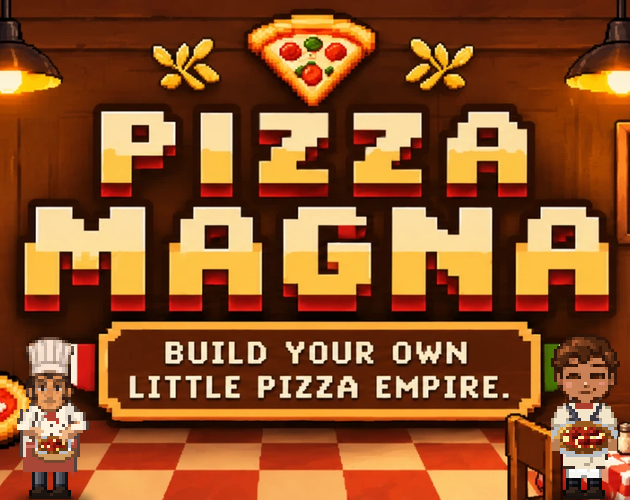
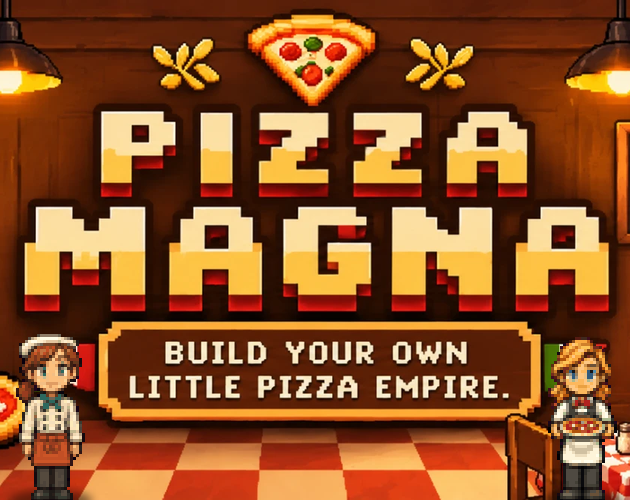
itch.io page kit: cover and screenshots with the cast-01 characters
After merging main (cast-01 is now the default): the cover uses a pizzaiola and
a waitress from assets/cast, the GIF maker drops the DEV switch and records a
full team (five cooks, four waiters), and the screenshots get a fuller team.

Claude-Session: https://claude.ai/code/session_01X3CjJc1MM1px52YqiUbKah

Changed region(s): [[0.8444, 0.66, 0.9952, 1.0], [0.0, 0.66, 0.1508, 1.0]]

diff --git a/itch/make_gifs.js b/itch/make_gifs.js
@@ -1,7 +1,7 @@
 /* Makes the animated GIFs for the itch.io page description, from the real game.
    Run from the repo root:  node itch/make_gifs.js        (needs Playwright and ffmpeg; takes a few minutes)
    Output (next to this file): gif-pizza.gif (a pizza built piece by piece), gif-day.gif (the dining room at
-   the dinner rush, with the new pilot staff art from DEV), gif-city.gif (a slow pan over Porto Magno).
+   the dinner rush, with the whole team), gif-city.gif (a slow pan over Porto Magno).
    Full-size screenshots are slow, so while recording the page runs at a quarter of its speed (clocks, timers,
    requestAnimationFrame and CSS animations) and the frames are timed in the page's own time. */
 const { chromium } = require('playwright');
@@ -9,7 +9,7 @@ const fs = require('fs'), path = require('path'), { execFileSync } = require('ch
 const OUT = __dirname, GAME = 'file://' + path.resolve(__dirname, '../index.html'), K = 0.25;
 const TMP = fs.mkdtempSync(path.join(require('os').tmpdir(), 'pm-gifs-'));
 
-async function page(b, viewport, scale, hash = '') {
+async function page(b, viewport, scale) {
   const ctx = await b.newContext({ viewport, deviceScaleFactor: scale, locale: 'en-US' });
   const p = await ctx.newPage();
   p.on('pageerror', e => console.log('ERR', e.message));
@@ -21,7 +21,7 @@ async function page(b, viewport, scale, hash = '') {
     const st = window.setTimeout.bind(window); window.setTimeout = (f, d, ...a) => st(f, (d || 0) / K, ...a);
     const si = window.setInterval.bind(window); window.setInterval = (f, d, ...a) => si(f, (d || 0) / K, ...a);
   }, K);
-  await p.goto(GAME + hash); await p.waitForTimeout(1500 / K);
+  await p.goto(GAME); await p.waitForTimeout(1500 / K);
   const cdp = await ctx.newCDPSession(p); await cdp.send('Animation.enable'); await cdp.send('Animation.setPlaybackRate', { playbackRate: K });
   // a quiet start: names given, no intro, an empty bench
   await p.evaluate(() => { ACT.quickstart(); closeModal(); const tt = $('#toast'); if (tt) tt.hidden = true });
@@ -75,9 +75,9 @@ function toGif({ dir, times }, name, fps, w, hold = 0) {
 
   // ---- 2. the dining room at the dinner rush (desktop layout)
   {
-    // #dev: the new staff art (the five pilot pizzaiolos and the pilot waiter, who is only the first waiter, so one waiter)
-    const g = await page(b, { width: 1280, height: 800 }, 1, '#dev'), { p, W } = g;
-    await p.evaluate(() => { state.staff = startStaff(5, 1); state.menu.forEach(m => m.price = Math.max(7, Math.round(m.price - 1))); state.tab = 'dia'; render() });
+    // a full team, so all five cooks and all four waiters of the cast show
+    const g = await page(b, { width: 1280, height: 800 }, 1), { p, W } = g;
+    await p.evaluate(() => { state.staff = startStaff(5, 4); state.menu.forEach(m => m.price = Math.max(7, Math.round(m.price - 1))); state.tab = 'dia'; render() });
     await W(600); await p.click('[data-act=open]'); await W(300);
     await p.evaluate(() => { let n = 0; while (anim && anim.t < 18 && n++ < 9000) step(.05) }); await W(300);
     const stop = recorder(g, '#room', 1); await W(7000);

diff --git a/itch/make_media.js b/itch/make_media.js
@@ -149,6 +149,7 @@ const save = (name, url) => fs.writeFileSync(path.join(OUT, name), Buffer.from(u
   // ---- screenshots of the real game (desktop size)
   await p.evaluate(() => {
     closeModal(); state = ensureShops(freshState()); Object.assign(state, { chef: 'Rui', shop: "Pizza d'Italia", seenIntro: true, money: 2350, day: 19, rep: 3.4, tier: 3, lastSales: {}, logo: 'chefw' });
+    state.staff = startStaff(3, 2);   // a fuller team in the kitchen and the room
     const mk = (dough, sauce, list) => { const pieces = [...spread('mozzarella', 12, .74, 0)]; list.forEach(([id, n], k) => pieces.push(...spread(id, n, .66 - .04 * (k % 3), k * 2 + 1))); return { dough, sauce, pieces } };
     const L = [['Margherita da Casa', 'napo', 'tomate', [['manjericao', 7]]], ['Pepperoni Picante', 'napo', 'tomate', [['pepperoni', 10], ['azeitonas', 5], ['oregaos', 4]]],
       ['Hawaii', 'napo', 'tomate', [['fiambre', 7], ['ananas', 8]]], ['Quattro Gusti', 'lenta', 'tomate', [['cogumelos', 6], ['fiambre', 5], ['pimento', 5], ['azeitonas', 5]]],

diff --git a/itch/make_cover.py b/itch/make_cover.py
@@ -1,6 +1,6 @@
 # Run from anywhere:  python3 itch/make_cover.py   (needs Pillow)
-# Cover 630x500: the centre of the ChatGPT banner (title and slogan) with two of the new pilot staff
-# (dev/pilots) drawn 3x in the bottom corners, over the cut-off pizza and chair at the edges.
+# Cover 630x500: the centre of the ChatGPT banner (title and slogan) with two of the game's people
+# (assets/cast: a pizzaiola and a waitress with a pizza) drawn 3x in the bottom corners, over the cut-off pizza and chair at the edges.
 from PIL import Image, ImageDraw, ImageFilter
 import os
 R=os.path.join(os.path.dirname(os.path.abspath(__file__)),'..')+'/'
@@ -12,8 +12,8 @@ def put(sp,k,x,y):
     fx0,fx1=x+bb[0],x+bb[2];fy=y+bb[3]
     d.ellipse((fx0-6,fy-12,fx1+6,fy+8),fill=(20,8,2,130));sh=sh.filter(ImageFilter.GaussianBlur(4))
     cv.alpha_composite(sh);cv.alpha_composite(sp,(x,y))
-cook=cell('dev/pilots/cook-01/cook-01.png',48,58,10,0)
-waiter=cell('dev/pilots/waiter-01/waiter-01.png',32,58,5,1)
-put(cook,3,-22,500-174+8)
+cook=cell('assets/cast/cooks/02/idle.png',32,58,0,0)
+waiter=cell('assets/cast/waiters/02/service.png',32,58,0,1)   # facing down, carrying
+put(cook,3,4,500-174+8)
 put(waiter,3,630-96+2,500-174+8)
 cv.convert('RGB').save(R+'itch/cover-main.png',optimize=True)

diff --git a/itch/PAGE.md b/itch/PAGE.md
@@ -6,7 +6,7 @@ Everything the itch.io page needs. The images are made by `node itch/make_media.
 
 | File | Where it goes on itch.io | Size |
 |---|---|---|
-| `cover-main.png` | Edit game › **Cover image** (shown in lists and search), the one to use: the title and slogan from the main banner, with the new pilot pizzaiolo and waiter in the corners; made by `python3 itch/make_cover.py` | 630 × 500 |
+| `cover-main.png` | Edit game › **Cover image** (shown in lists and search), the one to use: the title and slogan from the main banner, with a pizzaiola and a waitress from the game's characters in the corners; made by `python3 itch/make_cover.py` | 630 × 500 |
 | `cover.png` | The older cover drawn by `make_media.js`, kept as a spare | 630 × 500 |
 | `banner-main.png` | Edit game › Theme › **Banner**, the one in use: the chef by the oven and the slogan *Build your own little pizza empire.* (made with ChatGPT, not by the script; keep it when re-running `make_media.js`) | 2000 × 667 |
 | `banner.png` | The older banner drawn by `make_media.js` (planks and pizzas), kept as a spare | 1920 × 480 |
@@ -14,7 +14,7 @@ Everything the itch.io page needs. The images are made by `node itch/make_media.
 | `logo.png` | Transparent logo for the description, the devlog, social posts, Discord (not an itch field) | 1108 × 380 |
 | `shot-1.png` … `shot-7.png` | Edit game › **Screenshots**, in this order: kitchen, menu, the day, room, contest, city, shop (team and bank) | 1280 × 720 |
 | `head-cook.png`, `head-run.png`, `head-grow.png`, `head-compete.png`, `head-also.png` | Pictures inside the **description**, one above each section (pixel-art headings, transparent) | ~700 × 80 |
-| `gif-pizza.gif`, `gif-day.gif`, `gif-city.gif` | Animated pictures inside the **description** (a pizza built piece by piece, the dining room at the dinner rush, a pan over the city); made by `node itch/make_gifs.js`. The dining room uses the new staff art (the DEV pilots: five pizzaiolos and the first waiter) | 360–520 wide |
+| `gif-pizza.gif`, `gif-day.gif`, `gif-city.gif` | Animated pictures inside the **description** (a pizza built piece by piece, the dining room at the dinner rush, a pan over the city); made by `node itch/make_gifs.js`. The dining room has a full team (five pizzaiolos, four waiters) | 360–520 wide |
 | `preview.html` | Open it in a browser to see roughly how the page looks with all of the above (not uploaded) | |
 
 ## Colours (Theme editor)
